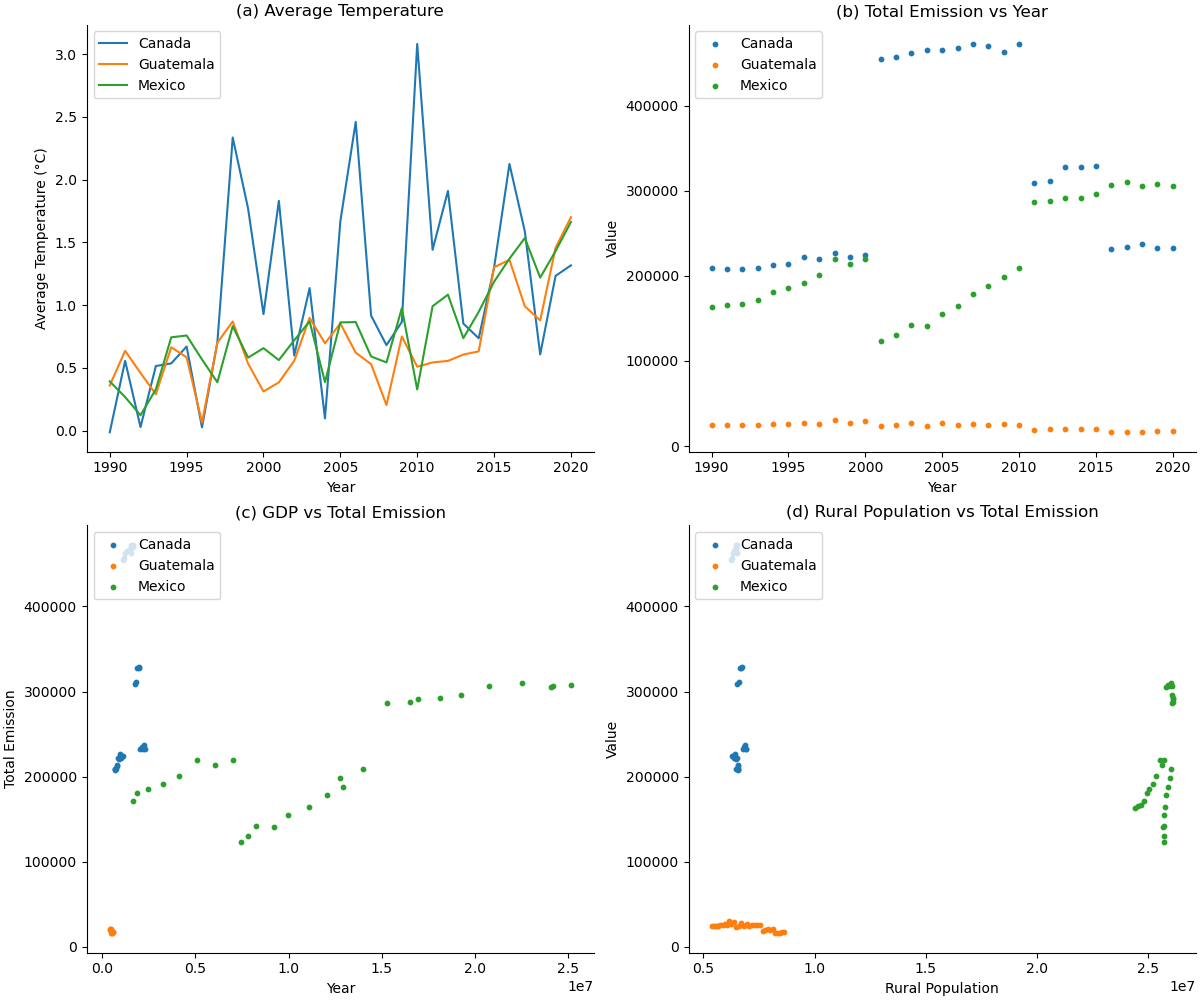
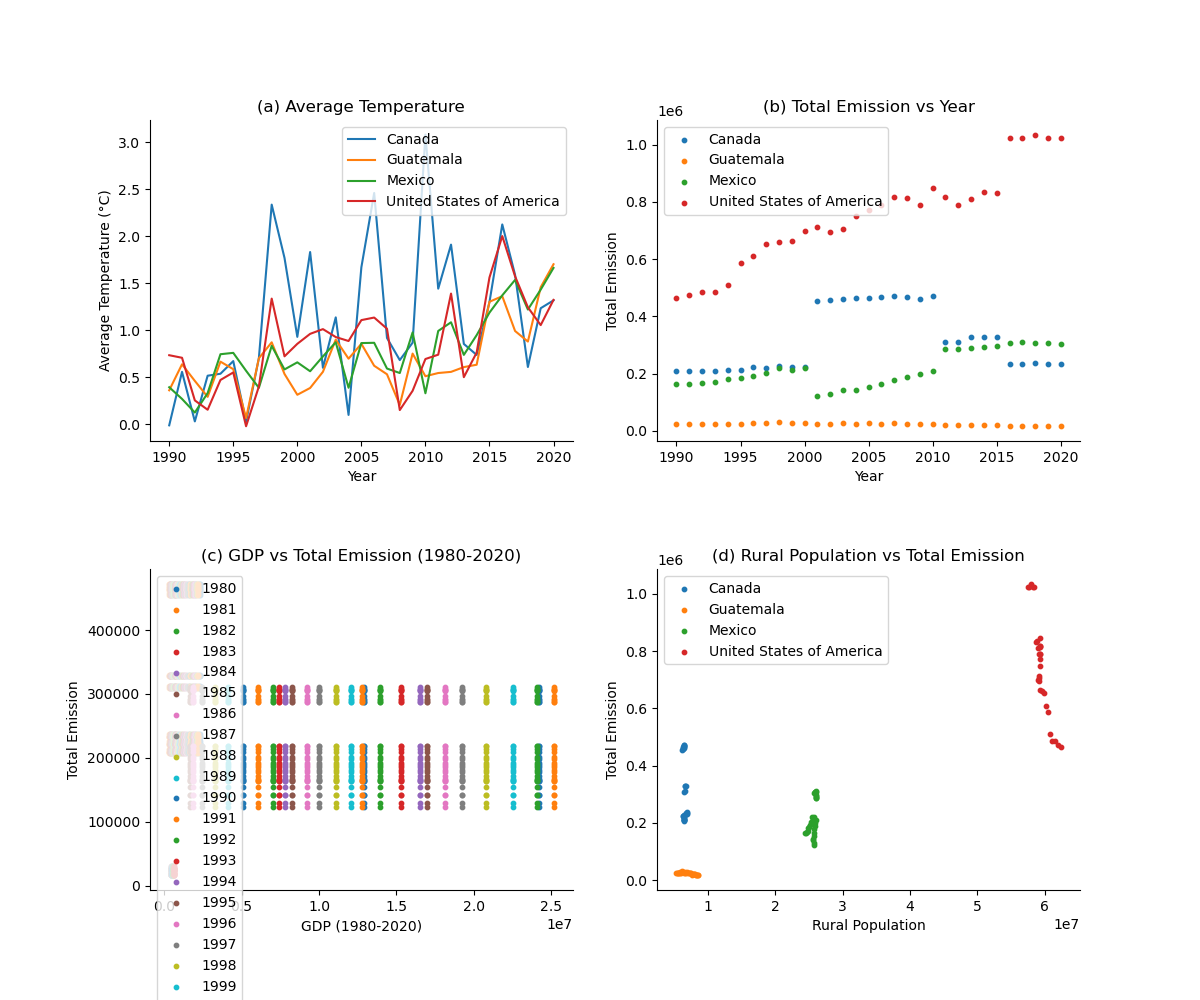
modified:   4_panel.png 	modified:   clean.py 	new file:   readme.md 	modified:   snakefile

diff --git a/assn_libs/clean.py b/assn_libs/clean.py
@@ -25,6 +25,7 @@ def read_and_clean(in_file):
         mainland_north_american_countries = [
         'United States', 'Canada', 'Mexico', 'Guatemala']
         gdp_mainland_na_df = read_file[read_file['Country'].isin(mainland_north_american_countries)]
+        gdp_mainland_na_df = gdp_mainland_na_df.replace('United States', 'United States of America')
         # Assuming you want to filter by years and 'Year' is a column
         gdp_mainland_na_df.to_csv('GDP_NA.csv', index=False)
 

diff --git a/assn_libs/readme.md b/assn_libs/readme.md
@@ -1,0 +1,15 @@
+Dearest grandfather, I dont know how to say this but, you ruin thanksgiving every year. It feels as if you are always out to get me by starting divisive conversations. I know you are a staunch trump supporter that will not yield to my snowflake emotions so I instead have put together data to show you how wrong you are.
+
+Starting from the top:
+here is my graph 
+https://github.com/cu-swe4s-fall-2023/assignment-8-searching-and-test-driven-development-arer2562/blob/assn_libs/assn_libs/4_panel.png?raw=true
+
+Figure 1A temperature by year in North america, the only continent you tihnk exists. As you see for past thirty years the temperature has a slow but steady incline! Clearly the earth is warming up.
+
+No surprise at panel b we see that emission have also increased by year as has temperature. this is correlative: gas more hot, almost exactly how you feel when you eat too many beans in your car
+
+In figure c grandpa, the years where we had more emissions GDP has stayed consistent probably. Therefore there is no correlation between the economy and emissions. So your usual arguement is moot.
+
+Lastly, countries with more rural populations are also emitting more co2. Everytime you emit you are putting yourself at risk since you live on a farm, and all your other farm friends. Would you be so cold hearted to make them eat gas?
+
+If you believe my analysis is biased feel free to look at my snake make file to reproduce it!  If i had more money I would try to show you how much places with great emission have higher cases of asthma and other respiratory diseases. That way I could confimr your beliefs are harming the farm friends!
